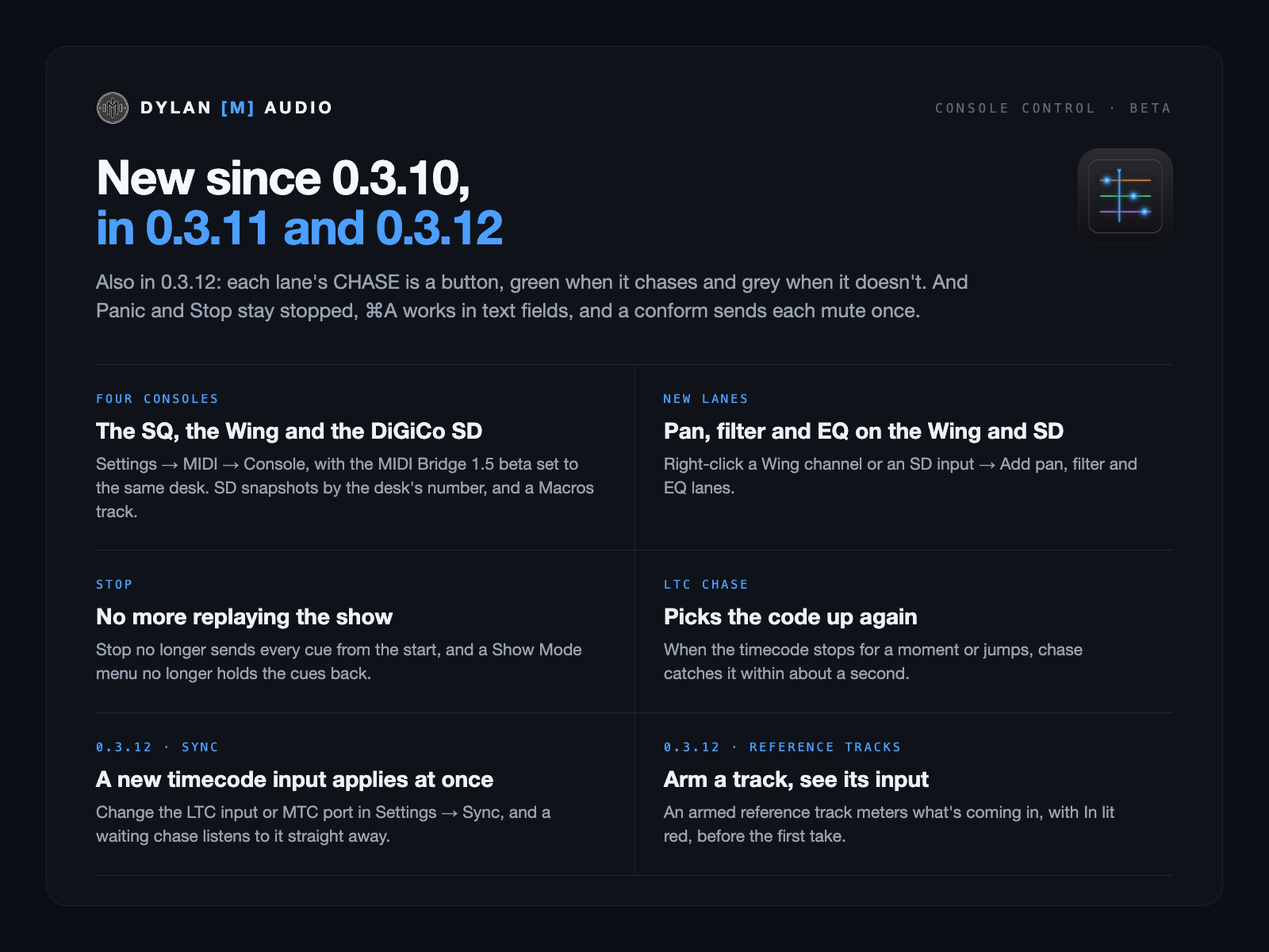
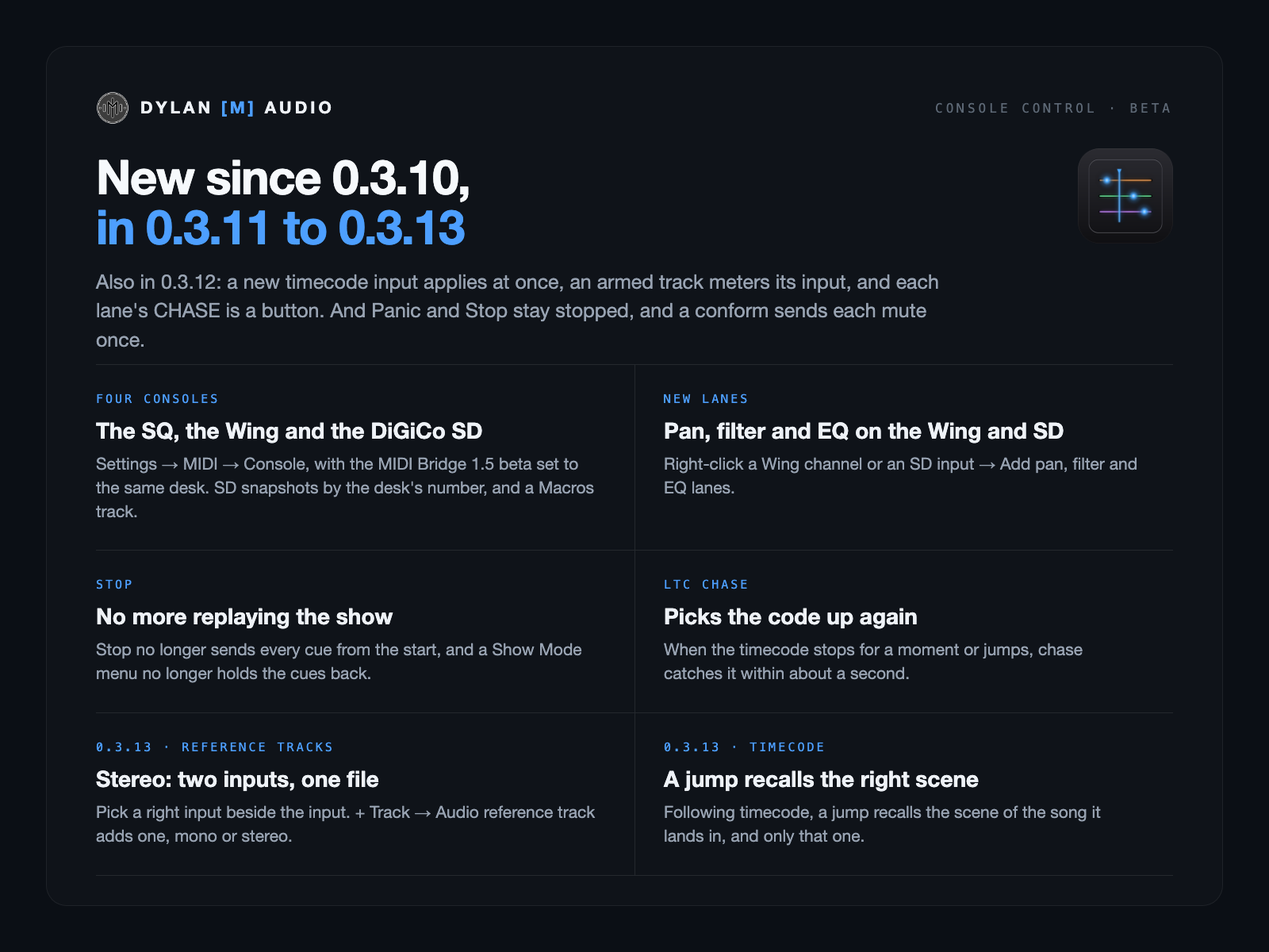
/cc-beta at 0.3.13: stereo reference tracks, the 0.3.13 guides and the beta manifest

Changed region(s): [[0.0625, 0.2158, 0.75, 0.37], [0.0625, 0.7708, 0.4688, 0.8942], [0.5312, 0.7708, 0.875, 0.8942]]

diff --git a/cc-beta/index.html b/cc-beta/index.html
@@ -222,7 +222,7 @@
       <img src="/assets/console-control.png" alt="Console Control app icon" width="72" height="72" />
       <div>
         <h1>Console Control</h1>
-        <div class="p-badges"><span class="tag">Beta &middot; 0.3.12</span></div>
+        <div class="p-badges"><span class="tag">Beta &middot; 0.3.13</span></div>
       </div>
     </div>
     <p class="p-tagline">Complete console automation, locked to timecode. Free to try until 30 November 2026.</p>
@@ -247,12 +247,12 @@
     <ul class="feature-list"><li><span class="ck"><svg viewBox="0 0 24 24" stroke-linecap="round" stroke-linejoin="round"><path d="M20 6 9 17l-5-5"/></svg></span><span>Fader, mute, Scene, Action and send cues on a timeline, locked to LTC or MTC</span></li><li><span class="ck"><svg viewBox="0 0 24 24" stroke-linecap="round" stroke-linejoin="round"><path d="M20 6 9 17l-5-5"/></svg></span><span>Import a live recording and every track lands at its real timecode — a whole set in under a minute</span></li><li><span class="ck"><svg viewBox="0 0 24 24" stroke-linecap="round" stroke-linejoin="round"><path d="M20 6 9 17l-5-5"/></svg></span><span>A tempo map from your click in seconds; snap cues to the beat</span></li><li><span class="ck"><svg viewBox="0 0 24 24" stroke-linecap="round" stroke-linejoin="round"><path d="M20 6 9 17l-5-5"/></svg></span><span>Your console's own Scene names, channel names and colours</span></li><li><span class="ck"><svg viewBox="0 0 24 24" stroke-linecap="round" stroke-linejoin="round"><path d="M20 6 9 17l-5-5"/></svg></span><span>Chase: locate anywhere and the console conforms</span></li><li><span class="ck"><svg viewBox="0 0 24 24" stroke-linecap="round" stroke-linejoin="round"><path d="M20 6 9 17l-5-5"/></svg></span><span>Preflight before doors, Show Mode during, Panic always</span></li><li><span class="ck"><svg viewBox="0 0 24 24" stroke-linecap="round" stroke-linejoin="round"><path d="M20 6 9 17l-5-5"/></svg></span><span>Works with MIDI Bridge, Time Code Tool and your Stream Deck</span></li></ul>
     <div class="side" style="margin-top:24px;">
       <div class="h">// The beta</div>
-      <div class="srow"><span class="k">Version</span><span class="v">0.3.12 BETA</span></div><div class="srow"><span class="k">Beta until</span><span class="v">30 November 2026</span></div><div class="srow"><span class="k">Price</span><span class="v">Free during the beta</span></div><div class="srow"><span class="k">Platform</span><span class="v">macOS 11+</span></div><div class="srow"><span class="k">Chip</span><span class="v">Apple Silicon &amp; Intel</span></div><div class="srow"><span class="k">Console</span><span class="v">dLive &middot; SQ &middot; Wing &middot; DiGiCo SD</span></div><div class="srow"><span class="k">Needs</span><span class="v">MIDI Bridge 1.5 beta, a second download with this one</span></div><div class="srow"><span class="k">Stream Deck</span><span class="v"><a href="/products/companion/" style="color:var(--blue)">via Companion</a></span></div>
+      <div class="srow"><span class="k">Version</span><span class="v">0.3.13 BETA</span></div><div class="srow"><span class="k">Beta until</span><span class="v">30 November 2026</span></div><div class="srow"><span class="k">Price</span><span class="v">Free during the beta</span></div><div class="srow"><span class="k">Platform</span><span class="v">macOS 11+</span></div><div class="srow"><span class="k">Chip</span><span class="v">Apple Silicon &amp; Intel</span></div><div class="srow"><span class="k">Console</span><span class="v">dLive &middot; SQ &middot; Wing &middot; DiGiCo SD</span></div><div class="srow"><span class="k">Needs</span><span class="v">MIDI Bridge 1.5 beta, a second download with this one</span></div><div class="srow"><span class="k">Stream Deck</span><span class="v"><a href="/products/companion/" style="color:var(--blue)">via Companion</a></span></div>
     </div>
   </div>
 </div></section>
 
-<section class="lf"><div class="wrap"><div class="lf-block" id="new"><div class="kicker p-sec-k"><span class="tick">//</span>&nbsp; New since 0.3.10</div><p>0.3.11 (28 October) added the SQ, the Wing and the DiGiCo SD; 0.3.12 (29 October) fixes what a tester found. The full list comes with the download.</p><div class="lf-item"><h3>A new timecode input applies at once.</h3><p>Change the LTC input or the MTC port in Settings &rarr; Sync and a chase already waiting for code listens to the new one straight away, instead of after Stop and Play. (0.3.12)</p></div><div class="lf-item"><h3>An armed reference track meters its input.</h3><p>Its meter shows what&rsquo;s coming in, with In lit red, so you can check the level before you record. Before, it showed nothing until there was a take. (0.3.12)</p></div><div class="lf-item"><h3>Each lane&rsquo;s CHASE is a button.</h3><p>Green when the lane chases, grey when it doesn&rsquo;t. Switched off, it used to read &ldquo;&mdash;&rdquo;, which was hard to find to switch back on. (0.3.12)</p></div><div class="lf-item"><h3>Four consoles: the dLive, the SQ, the Wing and the DiGiCo SD.</h3><p>Choose the console in Settings &rarr; MIDI &rarr; Console, with the MIDI Bridge 1.5 beta (a second download with this one) set to the same one. On the SQ: faders, mutes, sends and scene recalls, with names and colours from Sync from Console. On the Wing: faders, mutes, sends to buses and Scene recalls. On the SD: faders, mutes, sends to auxes, snapshots recalled by the number on the desk&rsquo;s screen, and a Macros track that fires the desk&rsquo;s macros by name. The Reference Manual has the details for each.</p></div><div class="lf-item"><h3>Pan, filter and EQ lanes on the Wing and the SD.</h3><p>Right-click a Wing channel or an SD input &rarr; <b>Add pan, filter and EQ lanes&hellip;</b> for pan, HPF and LPF (in / out and frequency) and each EQ band&rsquo;s gain, frequency and Q, in the console&rsquo;s own ranges.</p></div><div class="lf-item"><h3>Stop no longer replays the show.</h3><p>With &ldquo;Stop returns to where play started&rdquo; on, a Stop could send every cue from the start of the show at once. Opening a menu in Show Mode no longer holds the cues back, and Panic and Stop stay stopped with &ldquo;Start on valid timecode when stopped&rdquo; on.</p></div><div class="lf-item"><h3>LTC chase picks the code up again.</h3><p>When the timecode stops for a moment or jumps, chase catches it within about a second of its return, instead of waiting for Stop and Play.</p></div><div class="lf-item"><h3>And smaller fixes.</h3><p><kbd>⌘A</kbd> works in text fields; a decimal Scene number is refused instead of rounded; a conform sends each mute once; a cue inserted from a dialog lands where you opened it.</p></div></div><div class="lf-block" id="start"><div class="kicker p-sec-k"><span class="tick">//</span>&nbsp; Your first session, in eight steps</div><p>Twenty minutes at the desk, or at home with a show recording. Nothing reaches the console until the bridge line is green.</p><ol class="lf-steps"><li><h3>Start MIDI Bridge</h3><p>The 1.5 beta, a second download with this one, set to your console. Console Control talks to the console through it. Wait for the green line at the bottom of the window.</p></li><li><h3>Choose the console</h3><p>Settings (<kbd>⌘,</kbd>) &rarr; MIDI &rarr; Console: the desk MIDI Bridge is set to. On a dLive, match the base MIDI channel too &mdash; the same number as Utility &rarr; Control &rarr; MIDI on the console.</p></li><li><h3>Add your tracks</h3><p><b>+ Track</b>, pick a type and a range. &ldquo;1-16&rdquo; makes sixteen input tracks in one step.</p></li><li><h3>Bring in the console&rsquo;s names</h3><p>Sync from Console (<kbd>⌃⌥R</kbd>) for channel names and colours, straight from the desk. File &rarr; Import Console Show File for a dLive&rsquo;s Scene names and Actions.</p></li><li><h3>Import a show recording</h3><p><kbd>⌘I</kbd>. With an LTC track present, every song is placed at its own timecode and outlined as a region.</p></li><li><h3>Place cues</h3><p>Select a track, then <kbd>U</kbd>, <kbd>I</kbd> or <kbd>V</kbd> for fader cues, <kbd>M</kbd> for mute, <kbd>S</kbd> for a Scene, <kbd>A</kbd> for an Action.</p></li><li><h3>Run Preflight</h3><p><kbd>⌃⌥P</kbd> checks the bridge, the base channel, chase and routing, and says exactly what is wrong.</p></li><li><h3>Arm SYNC, press play</h3><p>The timeline waits for timecode and follows it when it locks. Then <kbd>⌘⇧L</kbd> for Show Mode.</p></li></ol></div><div class="lf-block"><div class="kicker p-sec-k"><span class="tick">//</span>&nbsp; Four ideas that explain everything else</div><p>If the app ever surprises you, it is almost always one of these.</p><div class="lf-item"><h3>Time, not bars &mdash; cues sit at a timecode position.</h3><p>Live shows drift, drop the click and vamp. Tempo exists only for beat snapping and the grid &mdash; the ruler is always time.</p></div><div class="lf-item"><h3>Chase &mdash; move the playhead and the desk follows.</h3><p>Scrub, locate or play: every lane&rsquo;s value at that position is worked out and sent. Chase can be switched off for everything (<kbd>⇧C</kbd>) or per lane (<kbd>C</kbd>).</p></div><div class="lf-item"><h3>Fired vs pending &mdash; plain text was sent, a dot was not.</h3><p>A dot beside a readout means &ldquo;the console should be here, but it hasn&rsquo;t been sent&rdquo;. Conform Console sends everything pending in one pass.</p></div><div class="lf-item"><h3>One console path &mdash; everything goes through MIDI Bridge.</h3><p>Console Control never opens its own connection to the desk, so your DAW, Companion and the other apps keep working beside it.</p></div></div><div class="lf-block"><div class="kicker p-sec-k"><span class="tick">//</span>&nbsp; SYNC arms, play latches, stop disarms</div><p>The button beside Record. Always this way round &mdash; a show never latches on its own when it opens.</p><div class="states"><div class="state"><span class="dot" style="background:var(--dim)"></span><span class="l">Dimmed</span><span class="d">Sync off. Internal clock, for programming and loop playback.</span></div><div class="state"><span class="dot" style="background:#6f93b8"></span><span class="l">Lit steel-blue</span><span class="d">Armed. Press play to latch.</span></div><div class="state"><span class="dot" style="background:var(--amber)"></span><span class="l">Pulsing amber</span><span class="d">Play pressed, awaiting timecode.</span></div><div class="state"><span class="dot" style="background:var(--green)"></span><span class="l">Green</span><span class="d">Locked to incoming timecode. Locate and scrub belong to the source.</span></div><div class="state"><span class="dot" style="background:var(--amber)"></span><span class="l">Steady amber</span><span class="d">Freewheeling &mdash; the signal dropped and the timeline is coasting.</span></div></div><p><b>Right-click SYNC</b> for the source (LTC or MTC), the LTC input channel, the MTC port, freewheel time, drift tolerance and offset. <b>Still pulsing while code plays?</b> It is listening to the wrong input.</p></div><div class="lf-block" id="keys"><div class="kicker p-sec-k"><span class="tick">//</span>&nbsp; The keys worth learning first</div><p>Every shortcut can be changed in Help &rarr; Keyboard Shortcuts (<kbd>⌃⌥K</kbd>): click one and press the keys you want. Hover over any button to see its key. All of them are in the <a href="/guides/console-control-quick-reference.pdf" target="_blank" rel="noopener">Quick Reference</a>.</p><div class="keys"><div class="key"><div class="c"><kbd>Space</kbd></div><div class="a">Play / stop</div></div><div class="key"><div class="c"><kbd>⌘⇧Esc</kbd></div><div class="a">Panic</div></div><div class="key"><div class="c"><kbd>⌘⇧L</kbd></div><div class="a">Show Mode</div></div><div class="key"><div class="c"><kbd>⌃⌥C</kbd></div><div class="a">Conform Console</div></div><div class="key"><div class="c"><kbd>⌃⌥P</kbd></div><div class="a">Preflight</div></div><div class="key"><div class="c"><kbd>⌃⌥R</kbd></div><div class="a">Sync from Console</div></div><div class="key"><div class="c"><kbd>U</kbd><kbd>I</kbd><kbd>V</kbd></div><div class="a">Fader cue: unity / &minus;&infin; / a value</div></div><div class="key"><div class="c"><kbd>M</kbd><kbd>⇧M</kbd></div><div class="a">Mute / unmute cue</div></div><div class="key"><div class="c"><kbd>S</kbd><kbd>A</kbd></div><div class="a">Scene / Action cue</div></div><div class="key"><div class="c"><kbd>C</kbd><kbd>⇧C</kbd></div><div class="a">Chase this lane / everything</div></div><div class="key"><div class="c"><kbd>[</kbd><kbd>]</kbd></div><div class="a">Previous / next marker, region or clip edge</div></div><div class="key"><div class="c"><kbd>1</kbd><kbd>…</kbd><kbd>0</kbd></div><div class="a">Regions 1 to 10</div></div><div class="key"><div class="c"><kbd>T</kbd></div><div class="a">Go to a timecode</div></div><div class="key"><div class="c"><kbd>⌥M</kbd><kbd>⌥R</kbd></div><div class="a">Marker at playhead / region from selection</div></div><div class="key"><div class="c"><kbd>⌥←</kbd><kbd>⌥→</kbd></div><div class="a">Nudge the selection</div></div><div class="key"><div class="c"><kbd>⌃⌥Space</kbd></div><div class="a">Record armed reference tracks</div></div><div class="key"><div class="c"><kbd>⌃⌥X</kbd></div><div class="a">Mixer</div></div><div class="key"><div class="c"><kbd>⌘Z</kbd><kbd>⌘⇧Z</kbd></div><div class="a">Undo / redo</div></div></div></div><div class="lf-block"><div class="kicker p-sec-k"><span class="tick">//</span>&nbsp; Built for show day</div><p>Four controls to know before doors.</p><div class="lf-item"><h3>Preflight &mdash; <kbd>⌃⌥P</kbd></h3><p>Flags problems before the show: bridge and console link, base-channel mismatches, chase switched off, send lanes the console can&rsquo;t route.</p></div><div class="lf-item"><h3>Show Mode &mdash; <kbd>⌘⇧L</kbd></h3><p>Locks editing and undo. Huge timecode, sync, chase, bridge health and live per-track readouts &mdash; and what&rsquo;s coming next, with countdowns. Asks before it enters and before it leaves.</p></div><div class="lf-item"><h3>Conform Console &mdash; <kbd>⌃⌥C</kbd></h3><p>A one-shot chase you can use at any moment. Play always conforms first, so the console enters playback in the right state.</p></div><div class="lf-item"><h3>Panic &mdash; <kbd>⌘⇧Esc</kbd></h3><p>Always available, even with everything else locked.</p></div></div><div class="lf-block" id="stream-deck"><div class="kicker p-sec-k"><span class="tick">//</span>&nbsp; On your Stream Deck</div><p>Beta testers get Stream Deck control too, through Bitfocus Companion.</p><div class="lf-item"><h3>Every shortcut is a key.</h3><p>Through the free <a href="/products/companion/">Companion module</a>, Console Control&rsquo;s commands are Companion actions &mdash; play, Conform, Show Mode, Panic, cue programming &mdash; with sync lock and chase shown on the keys. A Stream Deck is the nicest way to press them; Companion&rsquo;s web buttons on a phone or tablet work too.</p></div><div class="lf-item"><h3>Set it up once.</h3><p>Install Companion on the same Mac and add the dylanmaudio module &mdash; the steps are on the <a href="/products/companion/#install">Companion page</a>. Console Control appears beside your other dylanmaudio apps.</p></div><div class="lf-item"><h3>You decide what it can touch.</h3><p>Settings &rarr; Companion: allow Companion control or switch it off, and lock the show-critical controls &mdash; Stop, Record, Conform and Show Mode are refused while locked. Panic always works.</p></div></div><div class="lf-block"><div class="kicker p-sec-k"><span class="tick">//</span>&nbsp; If something is wrong</div><p>Read the line at the bottom of the window. It tells you where the chain is broken, in order.</p><div class="states"><div class="state"><span class="dot" style="background:var(--green)"></span><span class="l">Green</span><span class="d">Console connected through the bridge. Its IP is shown.</span></div><div class="state"><span class="dot" style="background:var(--amber)"></span><span class="l">Amber</span><span class="d">Bridge running, console unreachable. Check the console&rsquo;s address in MIDI Bridge, and the network.</span></div><div class="state"><span class="dot" style="background:var(--red)"></span><span class="l">Red</span><span class="d">The MIDI Bridge app isn&rsquo;t running. Start it.</span></div><div class="state"><span class="dot" style="background:var(--blue)"></span><span class="l">Green, but nothing moves</span><span class="d">Check chase for everything (<kbd>⇧C</kbd>), the track&rsquo;s M, the lane&rsquo;s CHASE button (grey is off) &mdash; or run Preflight (<kbd>⌃⌥P</kbd>).</span></div><div class="state"><span class="dot" style="background:var(--blue)"></span><span class="l">A track won&rsquo;t edit</span><span class="d">It is locked, or you are in Show Mode.</span></div></div><p><b>Something went wrong?</b> <b>Help &rarr; Export Log&hellip;</b> puts a copy of the session log on your Desktop. Send it with <b>Help &rarr; Send Feedback&hellip;</b>, or to <a href="mailto:dylan@dylanmaudio.com">dylan@dylanmaudio.com</a>. The log already records your settings, the show, every message you saw and the timecode state.</p></div><div class="lf-block" id="beta"><div class="kicker p-sec-k"><span class="tick">//</span>&nbsp; The beta, until 30 November 2026</div><p>This is 0.3.12 BETA: a full-featured beta. Nothing is switched off, and nothing is locked away afterwards.</p><div class="lf-item"><h3>Until the date, everything works.</h3><p>The window shows the end date from first launch, and for the last two weeks it reminds you each time it opens.</p></div><div class="lf-item"><h3>After the date, it opens and edits but sends nothing.</h3><p>Your shows stay yours. Console output stops until you install a newer beta.</p></div><div class="lf-item"><h3>A show is never interrupted.</h3><p>The date is only checked when the app starts, so a show that runs past midnight carries on.</p></div><div class="lf-item"><h3>You need MIDI Bridge and a current Mac.</h3><p>The MIDI Bridge 1.5 beta, a second download with this one. macOS 11 or later, Apple Silicon or Intel. Companion and a Stream Deck if you want keys. No analytics, no telemetry.</p></div></div></div></section>
+<section class="lf"><div class="wrap"><div class="lf-block" id="new"><div class="kicker p-sec-k"><span class="tick">//</span>&nbsp; New since 0.3.10</div><p>0.3.11 (28 October) added the SQ, the Wing and the DiGiCo SD; 0.3.12 (29 October) fixed what a tester found; 0.3.13 (30 October) records reference tracks in stereo. The full list comes with the download.</p><div class="lf-item"><h3>Stereo reference tracks.</h3><p>A reference track can record two inputs, left and right, into one stereo file: pick its right input beside its input (&ldquo;mono&rdquo; keeps it to one), and an armed stereo track meters both sides. (0.3.13)</p></div><div class="lf-item"><h3>Add a reference track from + Track.</h3><p><b>+ Track &rarr; Audio reference track</b> adds an empty one, mono or stereo, to import onto or to arm and record. A new show starts with one reference track instead of four; shows you already have keep theirs. (0.3.13)</p></div><div class="lf-item"><h3>A jump in the timecode recalls the right scene.</h3><p>Following timecode, a jump recalls the scene of the song it lands in, and only that one. Before, a jump forward recalled every scene on the way and a jump back none, so the desk stayed on the song you left. (0.3.13)</p></div><div class="lf-item"><h3>A new timecode input applies at once.</h3><p>Change the LTC input or the MTC port in Settings &rarr; Sync and a chase already waiting for code listens to the new one straight away, instead of after Stop and Play. (0.3.12)</p></div><div class="lf-item"><h3>An armed reference track meters its input.</h3><p>Its meter shows what&rsquo;s coming in, with In lit red, so you can check the level before you record. Before, it showed nothing until there was a take. (0.3.12)</p></div><div class="lf-item"><h3>Each lane&rsquo;s CHASE is a button.</h3><p>Green when the lane chases, grey when it doesn&rsquo;t. Switched off, it used to read &ldquo;&mdash;&rdquo;, which was hard to find to switch back on. (0.3.12)</p></div><div class="lf-item"><h3>Four consoles: the dLive, the SQ, the Wing and the DiGiCo SD.</h3><p>Choose the console in Settings &rarr; MIDI &rarr; Console, with the MIDI Bridge 1.5 beta (a second download with this one) set to the same one. On the SQ: faders, mutes, sends and scene recalls, with names and colours from Sync from Console. On the Wing: faders, mutes, sends to buses and Scene recalls. On the SD: faders, mutes, sends to auxes, snapshots recalled by the number on the desk&rsquo;s screen, and a Macros track that fires the desk&rsquo;s macros by name. The Reference Manual has the details for each.</p></div><div class="lf-item"><h3>Pan, filter and EQ lanes on the Wing and the SD.</h3><p>Right-click a Wing channel or an SD input &rarr; <b>Add pan, filter and EQ lanes&hellip;</b> for pan, HPF and LPF (in / out and frequency) and each EQ band&rsquo;s gain, frequency and Q, in the console&rsquo;s own ranges.</p></div><div class="lf-item"><h3>Stop no longer replays the show.</h3><p>With &ldquo;Stop returns to where play started&rdquo; on, a Stop could send every cue from the start of the show at once. Opening a menu in Show Mode no longer holds the cues back, and Panic and Stop stay stopped with &ldquo;Start on valid timecode when stopped&rdquo; on.</p></div><div class="lf-item"><h3>LTC chase picks the code up again.</h3><p>When the timecode stops for a moment or jumps, chase catches it within about a second of its return, instead of waiting for Stop and Play.</p></div><div class="lf-item"><h3>And smaller fixes.</h3><p><kbd>⌘A</kbd> works in text fields; a decimal Scene number is refused instead of rounded; a conform sends each mute once; a cue inserted from a dialog lands where you opened it.</p></div></div><div class="lf-block" id="start"><div class="kicker p-sec-k"><span class="tick">//</span>&nbsp; Your first session, in eight steps</div><p>Twenty minutes at the desk, or at home with a show recording. Nothing reaches the console until the bridge line is green.</p><ol class="lf-steps"><li><h3>Start MIDI Bridge</h3><p>The 1.5 beta, a second download with this one, set to your console. Console Control talks to the console through it. Wait for the green line at the bottom of the window.</p></li><li><h3>Choose the console</h3><p>Settings (<kbd>⌘,</kbd>) &rarr; MIDI &rarr; Console: the desk MIDI Bridge is set to. On a dLive, match the base MIDI channel too &mdash; the same number as Utility &rarr; Control &rarr; MIDI on the console.</p></li><li><h3>Add your tracks</h3><p><b>+ Track</b>, pick a type and a range. &ldquo;1-16&rdquo; makes sixteen input tracks in one step.</p></li><li><h3>Bring in the console&rsquo;s names</h3><p>Sync from Console (<kbd>⌃⌥R</kbd>) for channel names and colours, straight from the desk. File &rarr; Import Console Show File for a dLive&rsquo;s Scene names and Actions.</p></li><li><h3>Import a show recording</h3><p><kbd>⌘I</kbd>. With an LTC track present, every song is placed at its own timecode and outlined as a region.</p></li><li><h3>Place cues</h3><p>Select a track, then <kbd>U</kbd>, <kbd>I</kbd> or <kbd>V</kbd> for fader cues, <kbd>M</kbd> for mute, <kbd>S</kbd> for a Scene, <kbd>A</kbd> for an Action.</p></li><li><h3>Run Preflight</h3><p><kbd>⌃⌥P</kbd> checks the bridge, the base channel, chase and routing, and says exactly what is wrong.</p></li><li><h3>Arm SYNC, press play</h3><p>The timeline waits for timecode and follows it when it locks. Then <kbd>⌘⇧L</kbd> for Show Mode.</p></li></ol></div><div class="lf-block"><div class="kicker p-sec-k"><span class="tick">//</span>&nbsp; Four ideas that explain everything else</div><p>If the app ever surprises you, it is almost always one of these.</p><div class="lf-item"><h3>Time, not bars &mdash; cues sit at a timecode position.</h3><p>Live shows drift, drop the click and vamp. Tempo exists only for beat snapping and the grid &mdash; the ruler is always time.</p></div><div class="lf-item"><h3>Chase &mdash; move the playhead and the desk follows.</h3><p>Scrub, locate or play: every lane&rsquo;s value at that position is worked out and sent. Chase can be switched off for everything (<kbd>⇧C</kbd>) or per lane (<kbd>C</kbd>).</p></div><div class="lf-item"><h3>Fired vs pending &mdash; plain text was sent, a dot was not.</h3><p>A dot beside a readout means &ldquo;the console should be here, but it hasn&rsquo;t been sent&rdquo;. Conform Console sends everything pending in one pass.</p></div><div class="lf-item"><h3>One console path &mdash; everything goes through MIDI Bridge.</h3><p>Console Control never opens its own connection to the desk, so your DAW, Companion and the other apps keep working beside it.</p></div></div><div class="lf-block"><div class="kicker p-sec-k"><span class="tick">//</span>&nbsp; SYNC arms, play latches, stop disarms</div><p>The button beside Record. Always this way round &mdash; a show never latches on its own when it opens.</p><div class="states"><div class="state"><span class="dot" style="background:var(--dim)"></span><span class="l">Dimmed</span><span class="d">Sync off. Internal clock, for programming and loop playback.</span></div><div class="state"><span class="dot" style="background:#6f93b8"></span><span class="l">Lit steel-blue</span><span class="d">Armed. Press play to latch.</span></div><div class="state"><span class="dot" style="background:var(--amber)"></span><span class="l">Pulsing amber</span><span class="d">Play pressed, awaiting timecode.</span></div><div class="state"><span class="dot" style="background:var(--green)"></span><span class="l">Green</span><span class="d">Locked to incoming timecode. Locate and scrub belong to the source.</span></div><div class="state"><span class="dot" style="background:var(--amber)"></span><span class="l">Steady amber</span><span class="d">Freewheeling &mdash; the signal dropped and the timeline is coasting.</span></div></div><p><b>Right-click SYNC</b> for the source (LTC or MTC), the LTC input channel, the MTC port, freewheel time, drift tolerance and offset. <b>Still pulsing while code plays?</b> It is listening to the wrong input.</p></div><div class="lf-block" id="keys"><div class="kicker p-sec-k"><span class="tick">//</span>&nbsp; The keys worth learning first</div><p>Every shortcut can be changed in Help &rarr; Keyboard Shortcuts (<kbd>⌃⌥K</kbd>): click one and press the keys you want. Hover over any button to see its key. All of them are in the <a href="/guides/console-control-quick-reference.pdf" target="_blank" rel="noopener">Quick Reference</a>.</p><div class="keys"><div class="key"><div class="c"><kbd>Space</kbd></div><div class="a">Play / stop</div></div><div class="key"><div class="c"><kbd>⌘⇧Esc</kbd></div><div class="a">Panic</div></div><div class="key"><div class="c"><kbd>⌘⇧L</kbd></div><div class="a">Show Mode</div></div><div class="key"><div class="c"><kbd>⌃⌥C</kbd></div><div class="a">Conform Console</div></div><div class="key"><div class="c"><kbd>⌃⌥P</kbd></div><div class="a">Preflight</div></div><div class="key"><div class="c"><kbd>⌃⌥R</kbd></div><div class="a">Sync from Console</div></div><div class="key"><div class="c"><kbd>U</kbd><kbd>I</kbd><kbd>V</kbd></div><div class="a">Fader cue: unity / &minus;&infin; / a value</div></div><div class="key"><div class="c"><kbd>M</kbd><kbd>⇧M</kbd></div><div class="a">Mute / unmute cue</div></div><div class="key"><div class="c"><kbd>S</kbd><kbd>A</kbd></div><div class="a">Scene / Action cue</div></div><div class="key"><div class="c"><kbd>C</kbd><kbd>⇧C</kbd></div><div class="a">Chase this lane / everything</div></div><div class="key"><div class="c"><kbd>[</kbd><kbd>]</kbd></div><div class="a">Previous / next marker, region or clip edge</div></div><div class="key"><div class="c"><kbd>1</kbd><kbd>…</kbd><kbd>0</kbd></div><div class="a">Regions 1 to 10</div></div><div class="key"><div class="c"><kbd>T</kbd></div><div class="a">Go to a timecode</div></div><div class="key"><div class="c"><kbd>⌥M</kbd><kbd>⌥R</kbd></div><div class="a">Marker at playhead / region from selection</div></div><div class="key"><div class="c"><kbd>⌥←</kbd><kbd>⌥→</kbd></div><div class="a">Nudge the selection</div></div><div class="key"><div class="c"><kbd>⌃⌥Space</kbd></div><div class="a">Record armed reference tracks</div></div><div class="key"><div class="c"><kbd>⌃⌥X</kbd></div><div class="a">Mixer</div></div><div class="key"><div class="c"><kbd>⌘Z</kbd><kbd>⌘⇧Z</kbd></div><div class="a">Undo / redo</div></div></div></div><div class="lf-block"><div class="kicker p-sec-k"><span class="tick">//</span>&nbsp; Built for show day</div><p>Four controls to know before doors.</p><div class="lf-item"><h3>Preflight &mdash; <kbd>⌃⌥P</kbd></h3><p>Flags problems before the show: bridge and console link, base-channel mismatches, chase switched off, send lanes the console can&rsquo;t route.</p></div><div class="lf-item"><h3>Show Mode &mdash; <kbd>⌘⇧L</kbd></h3><p>Locks editing and undo. Huge timecode, sync, chase, bridge health and live per-track readouts &mdash; and what&rsquo;s coming next, with countdowns. Asks before it enters and before it leaves.</p></div><div class="lf-item"><h3>Conform Console &mdash; <kbd>⌃⌥C</kbd></h3><p>A one-shot chase you can use at any moment. Play always conforms first, so the console enters playback in the right state.</p></div><div class="lf-item"><h3>Panic &mdash; <kbd>⌘⇧Esc</kbd></h3><p>Always available, even with everything else locked.</p></div></div><div class="lf-block" id="stream-deck"><div class="kicker p-sec-k"><span class="tick">//</span>&nbsp; On your Stream Deck</div><p>Beta testers get Stream Deck control too, through Bitfocus Companion.</p><div class="lf-item"><h3>Every shortcut is a key.</h3><p>Through the free <a href="/products/companion/">Companion module</a>, Console Control&rsquo;s commands are Companion actions &mdash; play, Conform, Show Mode, Panic, cue programming &mdash; with sync lock and chase shown on the keys. A Stream Deck is the nicest way to press them; Companion&rsquo;s web buttons on a phone or tablet work too.</p></div><div class="lf-item"><h3>Set it up once.</h3><p>Install Companion on the same Mac and add the dylanmaudio module &mdash; the steps are on the <a href="/products/companion/#install">Companion page</a>. Console Control appears beside your other dylanmaudio apps.</p></div><div class="lf-item"><h3>You decide what it can touch.</h3><p>Settings &rarr; Companion: allow Companion control or switch it off, and lock the show-critical controls &mdash; Stop, Record, Conform and Show Mode are refused while locked. Panic always works.</p></div></div><div class="lf-block"><div class="kicker p-sec-k"><span class="tick">//</span>&nbsp; If something is wrong</div><p>Read the line at the bottom of the window. It tells you where the chain is broken, in order.</p><div class="states"><div class="state"><span class="dot" style="background:var(--green)"></span><span class="l">Green</span><span class="d">Console connected through the bridge. Its IP is shown.</span></div><div class="state"><span class="dot" style="background:var(--amber)"></span><span class="l">Amber</span><span class="d">Bridge running, console unreachable. Check the console&rsquo;s address in MIDI Bridge, and the network.</span></div><div class="state"><span class="dot" style="background:var(--red)"></span><span class="l">Red</span><span class="d">The MIDI Bridge app isn&rsquo;t running. Start it.</span></div><div class="state"><span class="dot" style="background:var(--blue)"></span><span class="l">Green, but nothing moves</span><span class="d">Check chase for everything (<kbd>⇧C</kbd>), the track&rsquo;s M, the lane&rsquo;s CHASE button (grey is off) &mdash; or run Preflight (<kbd>⌃⌥P</kbd>).</span></div><div class="state"><span class="dot" style="background:var(--blue)"></span><span class="l">A track won&rsquo;t edit</span><span class="d">It is locked, or you are in Show Mode.</span></div></div><p><b>Something went wrong?</b> <b>Help &rarr; Export Log&hellip;</b> puts a copy of the session log on your Desktop. Send it with <b>Help &rarr; Send Feedback&hellip;</b>, or to <a href="mailto:dylan@dylanmaudio.com">dylan@dylanmaudio.com</a>. The log already records your settings, the show, every message you saw and the timecode state.</p></div><div class="lf-block" id="beta"><div class="kicker p-sec-k"><span class="tick">//</span>&nbsp; The beta, until 30 November 2026</div><p>This is 0.3.13 BETA: a full-featured beta. Nothing is switched off, and nothing is locked away afterwards.</p><div class="lf-item"><h3>Until the date, everything works.</h3><p>The window shows the end date from first launch, and for the last two weeks it reminds you each time it opens.</p></div><div class="lf-item"><h3>After the date, it opens and edits but sends nothing.</h3><p>Your shows stay yours. Console output stops until you install a newer beta.</p></div><div class="lf-item"><h3>A show is never interrupted.</h3><p>The date is only checked when the app starts, so a show that runs past midnight carries on.</p></div><div class="lf-item"><h3>You need MIDI Bridge and a current Mac.</h3><p>The MIDI Bridge 1.5 beta, a second download with this one. macOS 11 or later, Apple Silicon or Intel. Companion and a Stream Deck if you want keys. No analytics, no telemetry.</p></div></div></div></section>
 
 <section class="p-band"><div class="wrap"><div class="kicker" style="display:inline-block;">
   <span class="tick">//</span>&nbsp; Console Control beta</div>

diff --git a/build/build_beta.py b/build/build_beta.py
@@ -34,7 +34,7 @@ import build_products as P
 
 SLUG = "cc-beta"
 PRODUCT = C.PRODUCTS["console-control"]
-VERSION = "0.3.12 BETA"          # with the MIDI Bridge 1.5.0 beta, a second file on the store page (0.3.12 to testers 29 Oct 2026)
+VERSION = "0.3.13 BETA"          # with the MIDI Bridge 1.5.0 beta, a second file on the store page (0.3.13 to testers 30 Oct 2026)
 BETA_UNTIL = "30 November 2026"   # from 0.3.7; 0.3.2 and earlier stop sending on 31 October
 DOWNLOAD = C.CHECKOUT["console-control-beta"]
 # The carousel: the beta product's own store set, in assets/cards/console-control-beta/,
@@ -48,9 +48,20 @@ QUICK_REF = "/guides/console-control-quick-reference.pdf"
 # ---------------------------------------------------------------- the guide
 # (heading, detail) - detail may carry HTML.
 
-NEW = [  # Since 0.3.10, the testers' build until 28 Oct: 0.3.12's CHANGELOG (29 Oct, a tester's report)
-         # first, then 0.3.11's in ROADMAP's beta brief's selection (28 Oct). Nothing from "Not yet in
-         # this beta"; no 1.0 date.
+NEW = [  # Since 0.3.10, the testers' build until 28 Oct: 0.3.13's CHANGELOG (30 Oct) first, then 0.3.12's
+         # (29 Oct, a tester's report), then 0.3.11's in ROADMAP's beta brief's selection (28 Oct). Nothing
+         # from "Not yet in this beta"; no 1.0 date.
+    ("Stereo reference tracks.",
+     "A reference track can record two inputs, left and right, into one stereo file: pick its right input "
+     "beside its input (&ldquo;mono&rdquo; keeps it to one), and an armed stereo track meters both sides. (0.3.13)"),
+    ("Add a reference track from + Track.",
+     "<b>+ Track &rarr; Audio reference track</b> adds an empty one, mono or stereo, to import onto or to arm and "
+     "record. A new show starts with one reference track instead of four; shows you already have keep "
+     "theirs. (0.3.13)"),
+    ("A jump in the timecode recalls the right scene.",
+     "Following timecode, a jump recalls the scene of the song it lands in, and only that one. Before, a jump "
+     "forward recalled every scene on the way and a jump back none, so the desk stayed on the song you "
+     "left. (0.3.13)"),
     ("A new timecode input applies at once.",
      "Change the LTC input or the MTC port in Settings &rarr; Sync and a chase already waiting for code listens "
      "to the new one straight away, instead of after Stop and Play. (0.3.12)"),
@@ -290,8 +301,9 @@ def build():
 
     guide = "".join([
         block(kick("New since 0.3.10")
-              + "<p>0.3.11 (28 October) added the SQ, the Wing and the DiGiCo SD; 0.3.12 (29 October) fixes "
-                "what a tester found. The full list comes with the download.</p>"
+              + "<p>0.3.11 (28 October) added the SQ, the Wing and the DiGiCo SD; 0.3.12 (29 October) fixed "
+                "what a tester found; 0.3.13 (30 October) records reference tracks in stereo. The full list "
+                "comes with the download.</p>"
               + items(NEW), "new"),
         block(kick("Your first session, in eight steps")
               + "<p>Twenty minutes at the desk, or at home with a show recording. Nothing reaches the console "
